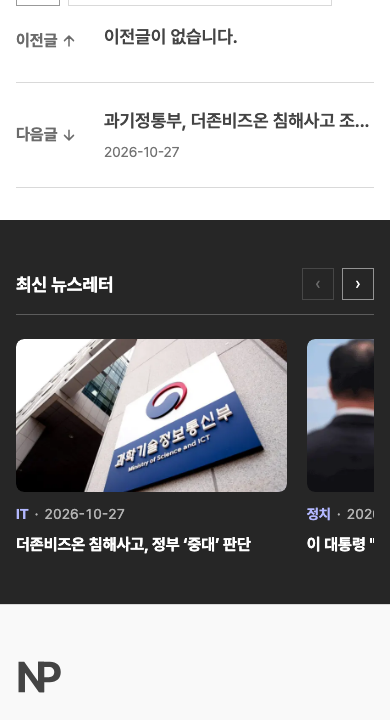
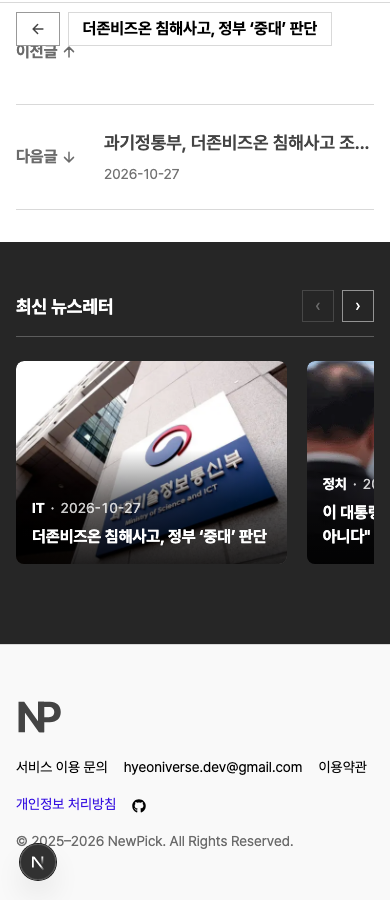
style(web): 최신 뉴스레터 사진 위 글자 카드·아래 여백, 이전/다음 줄 높이 맞추기 (#113)

diff --git a/apps/web/src/app/articles/detail/[slug]/_components/LatestArticle.tsx b/apps/web/src/app/articles/detail/[slug]/_components/LatestArticle.tsx
@@ -18,7 +18,7 @@ interface Props {
 }
 
 /**
- * 최신 뉴스레터: 화면 폭 전체 어두운 띠 위 사진 카드 슬라이드 (사진 → 관심사 · 날짜 → 제목)
+ * 최신 뉴스레터: 화면 폭 전체 어두운 띠 위 사진 카드 슬라이드. 사진을 카드 전체로 깔고 아래쪽을 어둡게 해 그 위에 관심사 · 날짜 · 제목
  */
 function LatestArticle({ className }: Props) {
 	const { data: articleList, isPending, isError } = useArticleListQuery();
@@ -63,12 +63,14 @@ function LatestArticle({ className }: Props) {
 										priority={false}
 									/>
 								</span>
-								<span className="meta">
-									<span className="category">{mapIdToTitle([article.categoryId])[0]}</span>
-									<span aria-hidden>·</span>
-									<span className="date">{dateFormatter(article.createdAt)}</span>
+								<span className="overlay">
+									<span className="meta">
+										<span className="category">{mapIdToTitle([article.categoryId])[0]}</span>
+										<span aria-hidden>·</span>
+										<span className="date">{dateFormatter(article.createdAt)}</span>
+									</span>
+									<span className="title">{article.title}</span>
 								</span>
-								<span className="title">{article.title}</span>
 							</Link>
 						</SwiperSlide>
 					))}
@@ -80,7 +82,7 @@ function LatestArticle({ className }: Props) {
 
 const LatestArticleStyled = styled.section`
 	position: relative;
-	padding: 3rem 0 3.5rem;
+	padding: 3rem 0 5.5rem;
 	margin: 2rem 0 -4.5rem;
 	color: #ffffff;
 
@@ -165,23 +167,31 @@ const LatestArticleStyled = styled.section`
 		}
 	}
 
-	/* 카드: 사진 → 관심사 · 날짜 한 줄 → 제목(두 줄까지) */
+	/* 카드: 사진을 카드 전체로, 아래쪽 그라데이션 위에 관심사 · 날짜 → 제목(두 줄까지) */
 	.item {
-		display: flex;
-		flex-direction: column;
-		gap: 0.5rem;
+		position: relative;
+		display: block;
+		overflow: hidden;
+		border-radius: ${({ theme }) => theme.radius.surface};
 		color: #ffffff;
 	}
 
 	.photo {
 		display: block;
-		margin-bottom: 0.25rem;
-		overflow: hidden;
-		border-radius: ${({ theme }) => theme.radius.surface};
 
 		img {
 			transition: transform 0.4s ease;
 		}
+	}
+
+	.overlay {
+		position: absolute;
+		inset: auto 0 0 0;
+		display: flex;
+		flex-direction: column;
+		gap: 0.375rem;
+		padding: 3rem 1rem 1rem;
+		background: linear-gradient(to top, rgba(0, 0, 0, 0.85) 0%, rgba(0, 0, 0, 0.55) 55%, transparent 100%);
 	}
 
 	.meta {
@@ -189,13 +199,13 @@ const LatestArticleStyled = styled.section`
 		align-items: center;
 		gap: 0.375rem;
 		font-size: ${({ theme }) => theme.fontSize.extraSmall};
-		color: rgba(255, 255, 255, 0.65);
+		color: rgba(255, 255, 255, 0.8);
 		font-variant-numeric: tabular-nums;
 	}
 
 	.category {
 		font-weight: ${({ theme }) => theme.fontWeight.semiBold};
-		color: #b3b8ff;
+		color: #ffffff;
 	}
 
 	.title {

diff --git a/apps/web/src/app/articles/detail/[slug]/_components/PrevNextArticle.tsx b/apps/web/src/app/articles/detail/[slug]/_components/PrevNextArticle.tsx
@@ -65,6 +65,8 @@ function PrevNextArticle({ className, prev, next }: Props) {
 						{text}
 						{icon}
 					</span>
+					{/* 사진 자리를 비워 두어 글이 있는 줄과 높이를 같게 */}
+					<div className="img blank" aria-hidden />
 					<div className="text-section">
 						<p className="title">{title}</p>
 						<p className="date">{date}</p>
@@ -119,6 +121,10 @@ const PrevNextArticleStyled = styled.section`
 					margin: 0;
 					overflow: hidden;
 					border-radius: ${({ theme }) => theme.radius.surface};
+
+					&.blank {
+						aspect-ratio: 16 / 9;
+					}
 				}
 
 				.text-section {
@@ -141,6 +147,8 @@ const PrevNextArticleStyled = styled.section`
 					.date {
 						color: ${({ theme }) => theme.color.lightGrey};
 						font-size: ${({ theme }) => theme.fontSize.extraSmall};
+						/* 글이 없어 날짜가 비어도 한 줄 높이를 지킨다 */
+						min-height: 1.5em;
 					}
 				}
 			}
